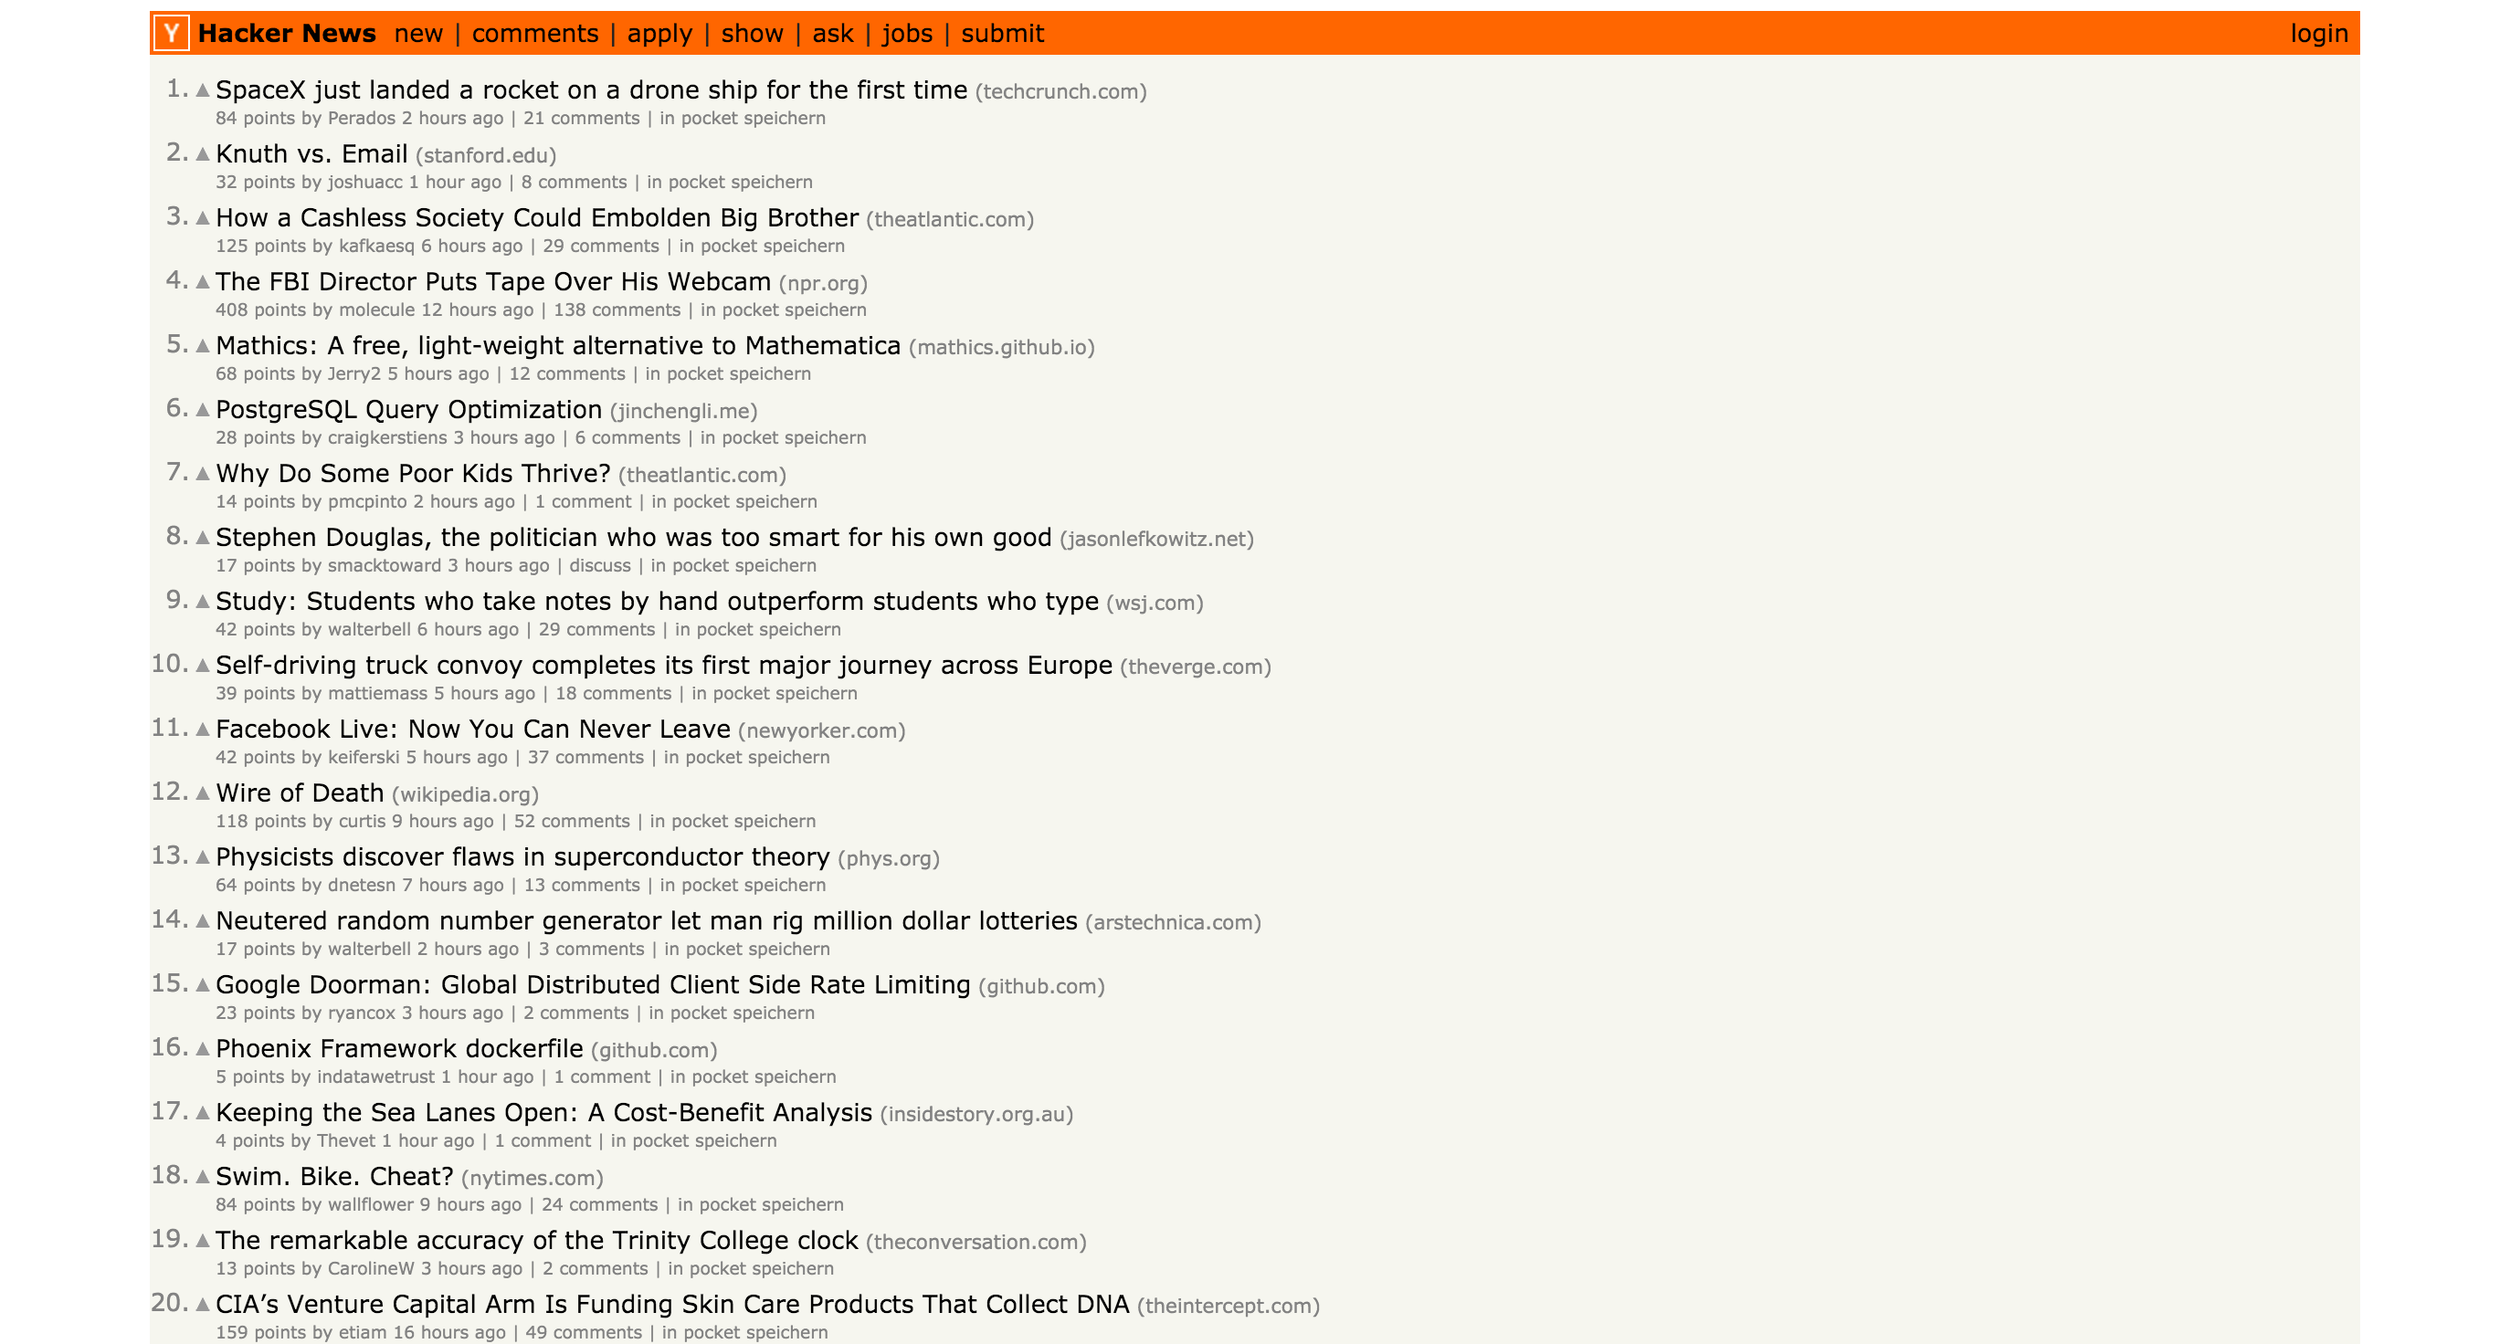
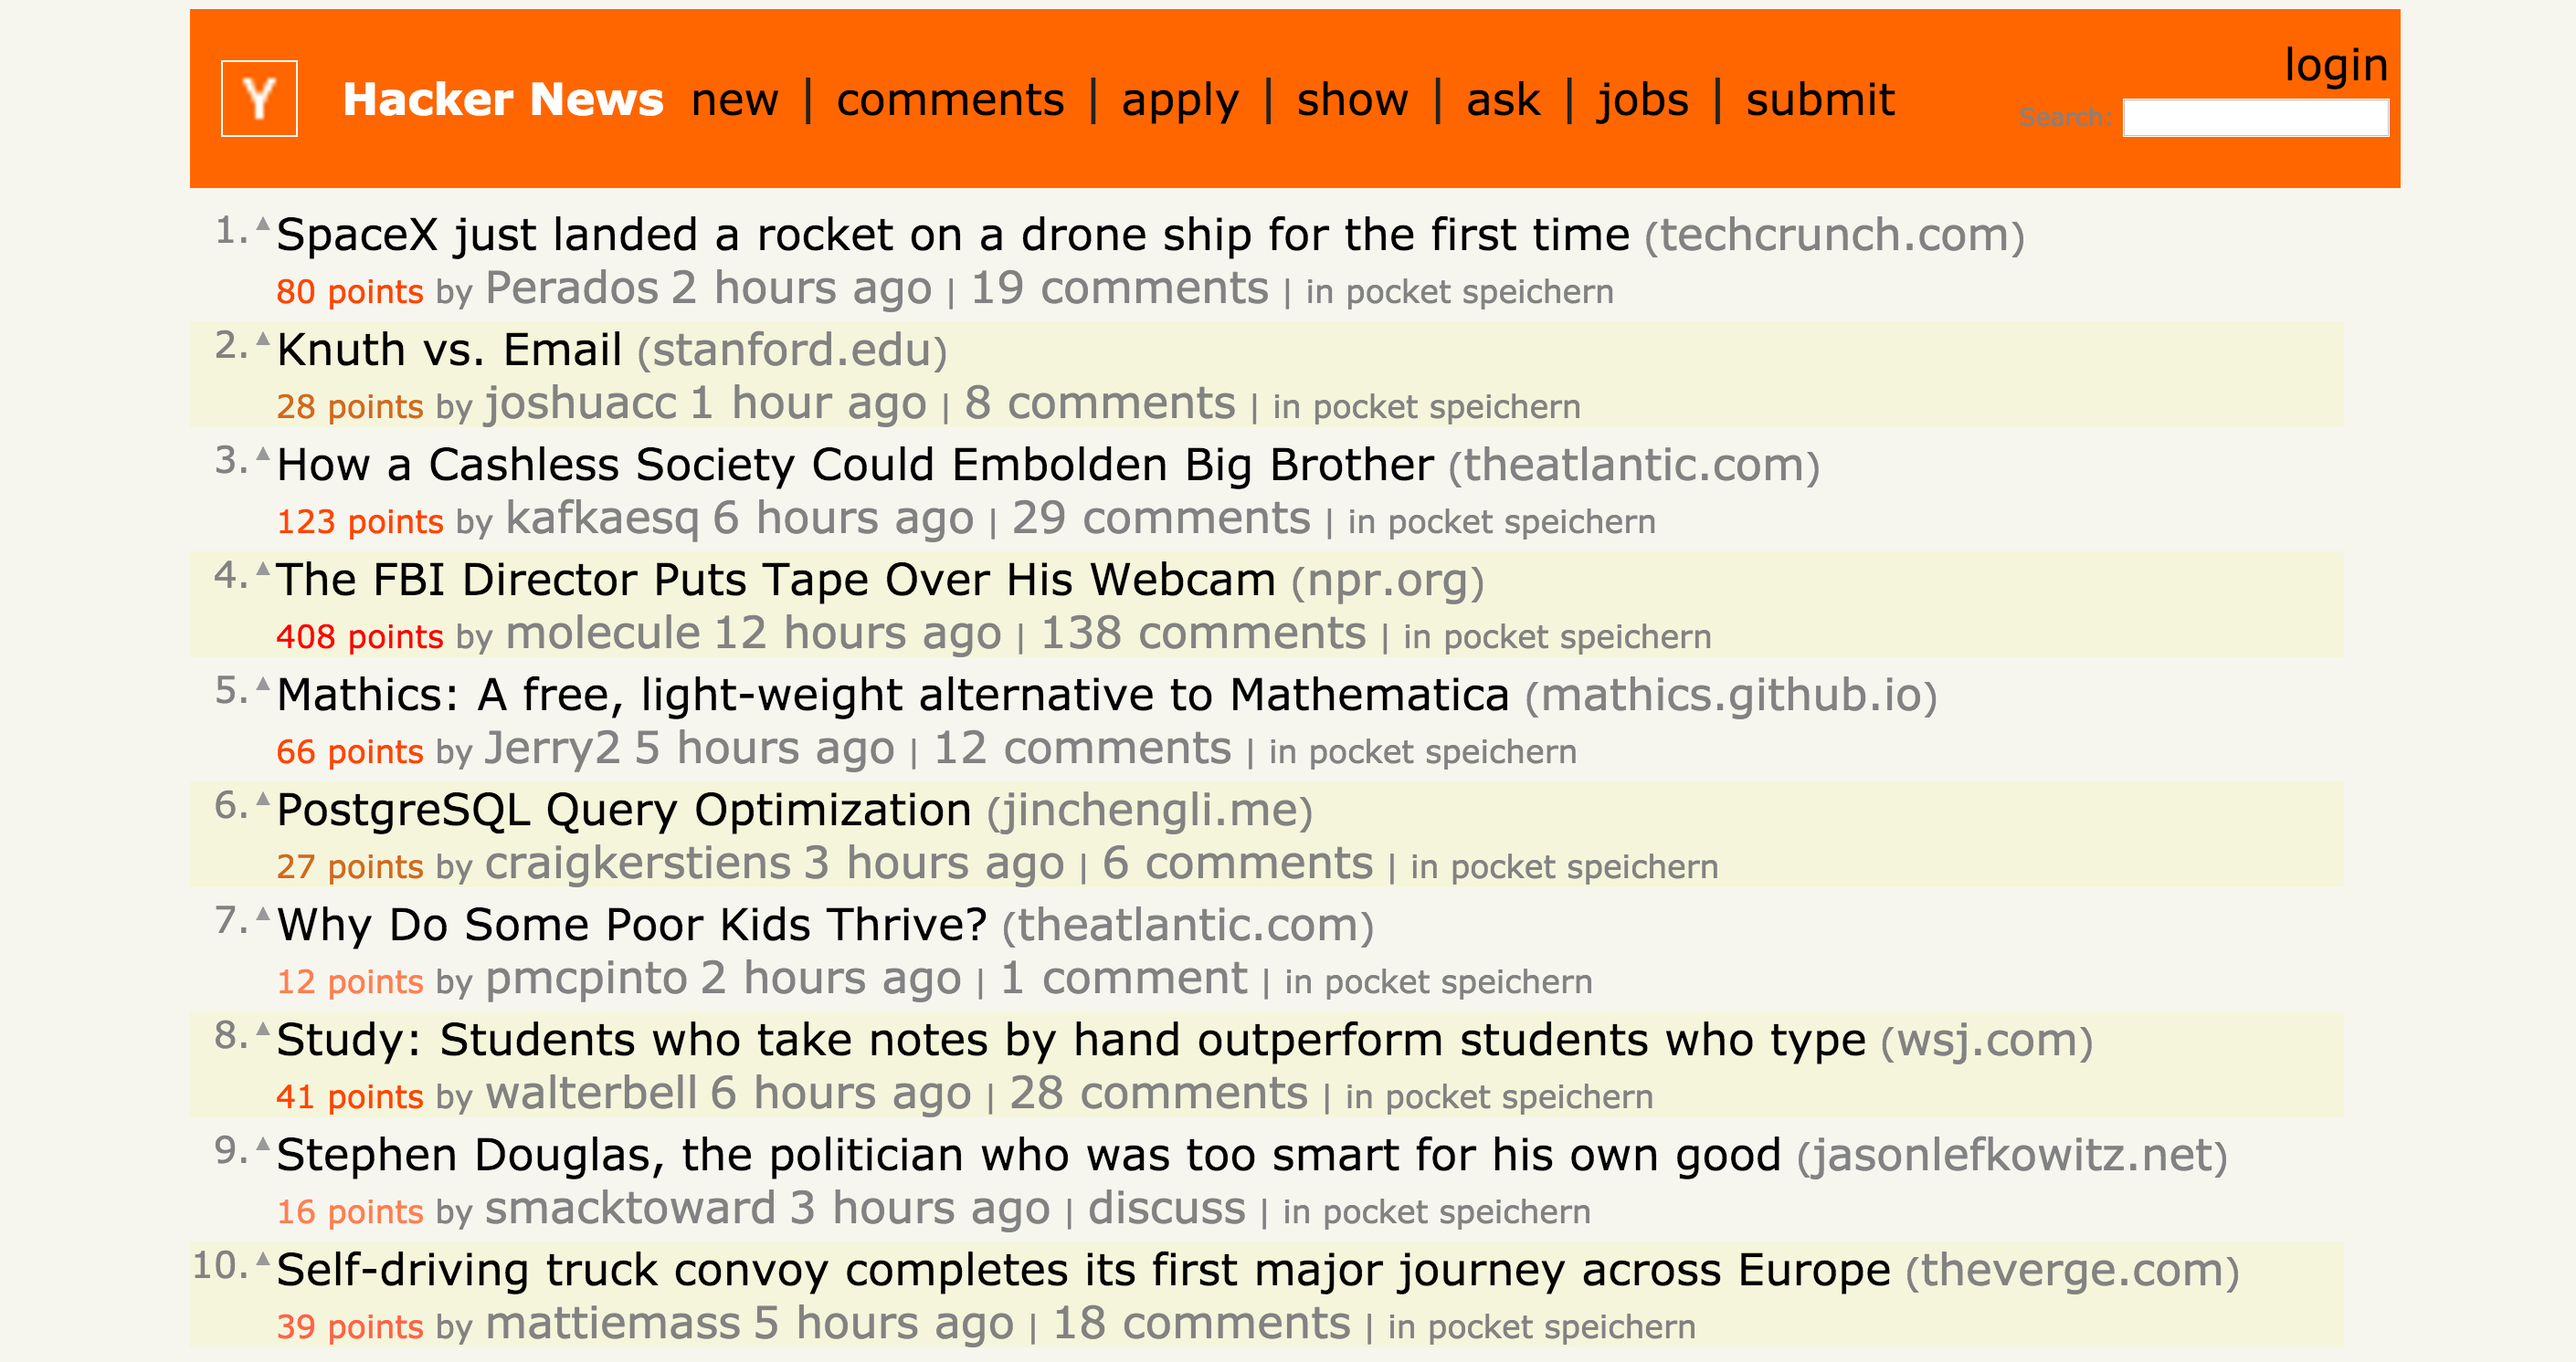
updated README.md

Changed region(s): [[0.0619, 0.0, 0.9589, 1.0]]

diff --git a/README.md b/README.md
@@ -2,9 +2,13 @@
 
 [tampermonkey](https://tampermonkey.net/) user script for [hackernews](https://news.ycombinator.com/).
 
-## screenshot
+## modified hackernews
 
 ![hackedHN](https://raw.githubusercontent.com/embayer/hackedHN/master/img/modified.png)
+
+## regular
+
+![hackernews](https://raw.githubusercontent.com/embayer/hackedHN/master/img/unmodified.png)
 
 
 ## features:
